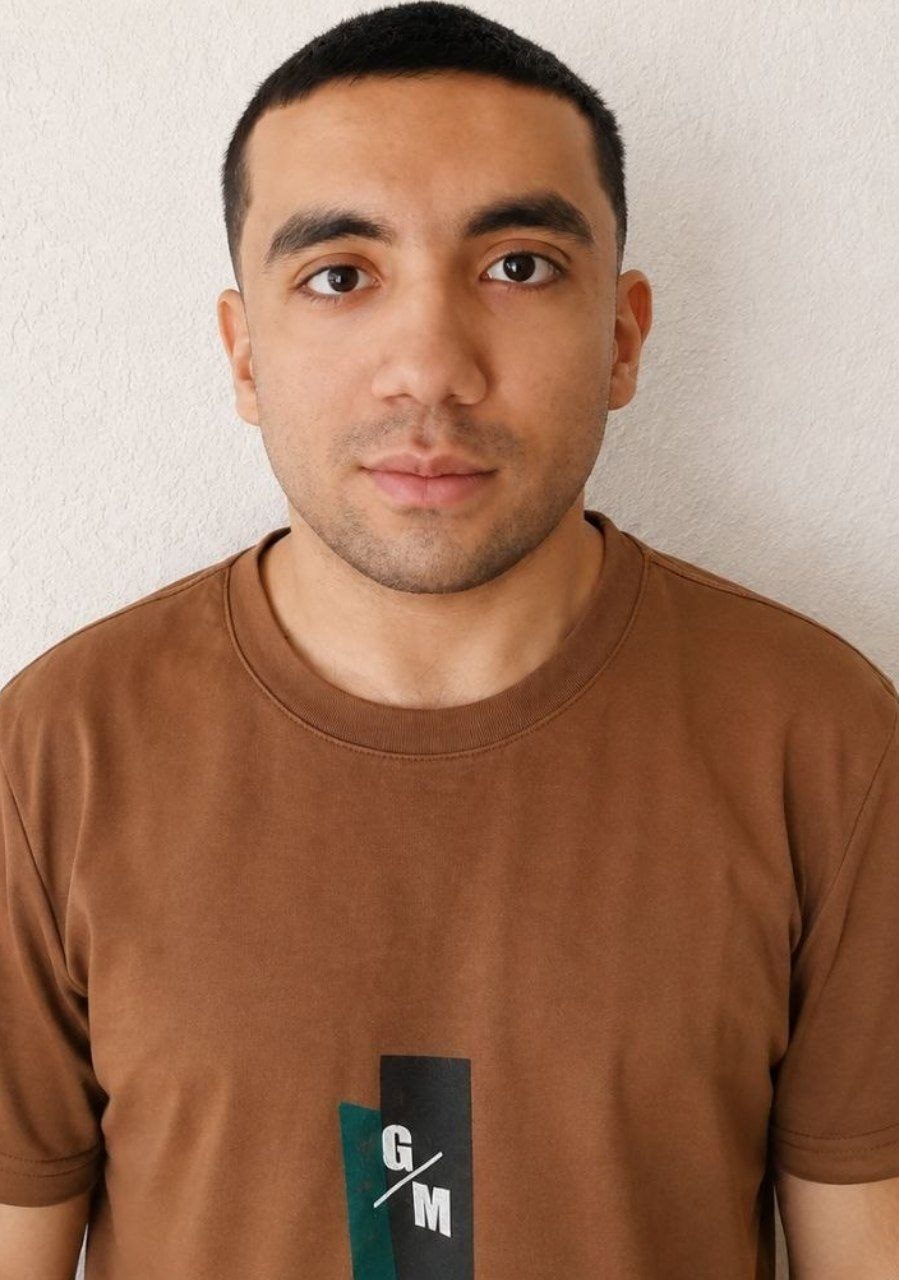
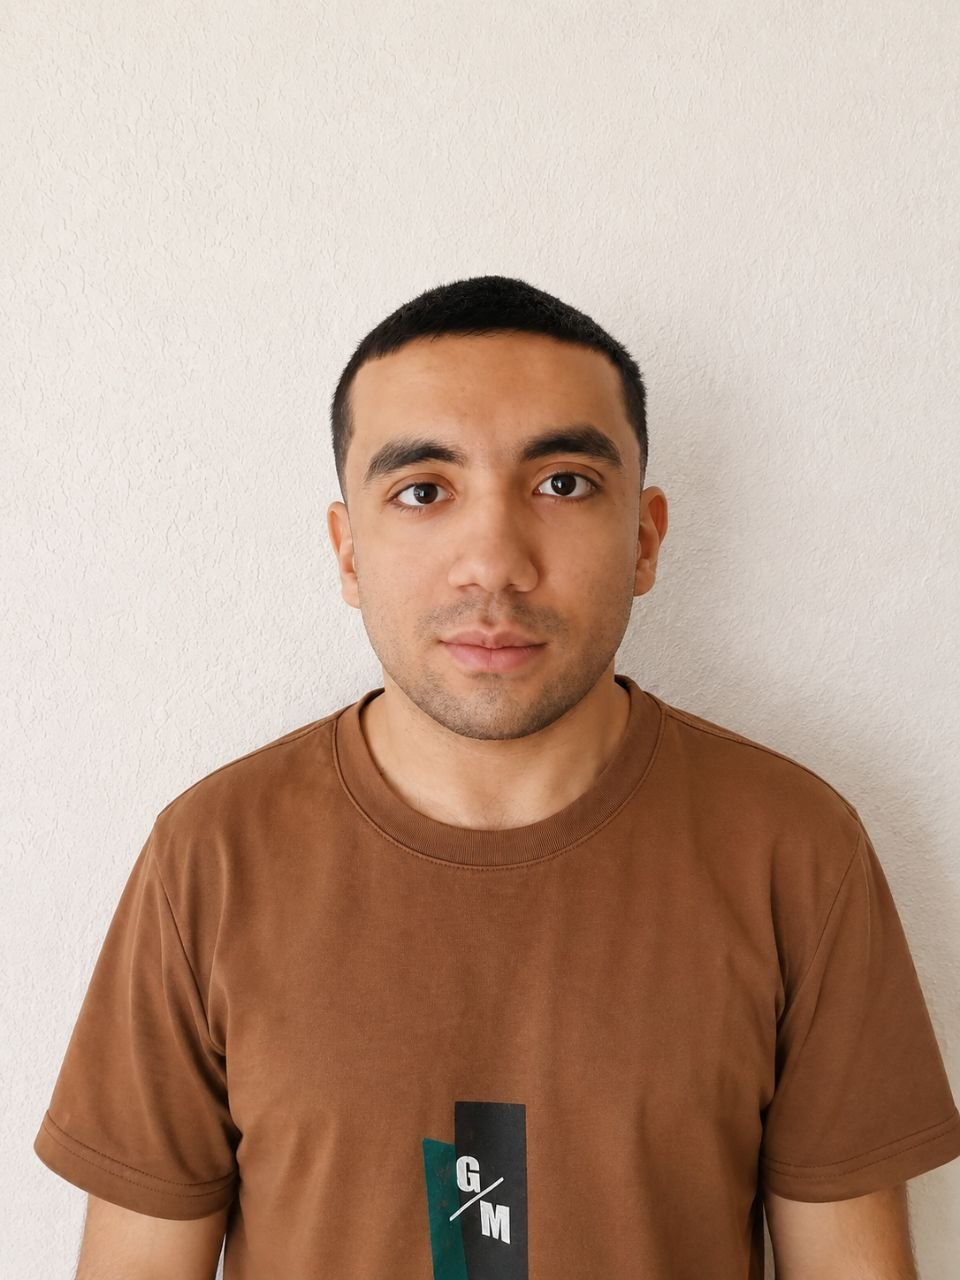
changes to the project

diff --git a/app/components/Home/Hero.tsx b/app/components/Home/Hero.tsx
@@ -31,13 +31,13 @@ export default function Hero() {
           </div>
         </div>
         <div className="flex w-full justify-center md:w-1/2 md:justify-end">
-          <div className="relative h-[220] w-[220] overflow-hidden rounded-full border-[7px] border-[#101010] shadow-[0_0_0_1px_#202020] sm:h-[280] sm:w-[280] md:h-[650] md:w-[650]">
+          <div className="relative h-[220] w-[220] overflow-hidden rounded-full border-[7px] border-[#101010] shadow-[0_0_0_1px_#202020] sm:h-[380] sm:w-[380]">
             <Image
               src="/profile.png"
               alt="profile"
               width={650}
               height={650}
-              className="h-full w-full object-cover"
+              className="object-cover"
             />
           </div>
         </div>
